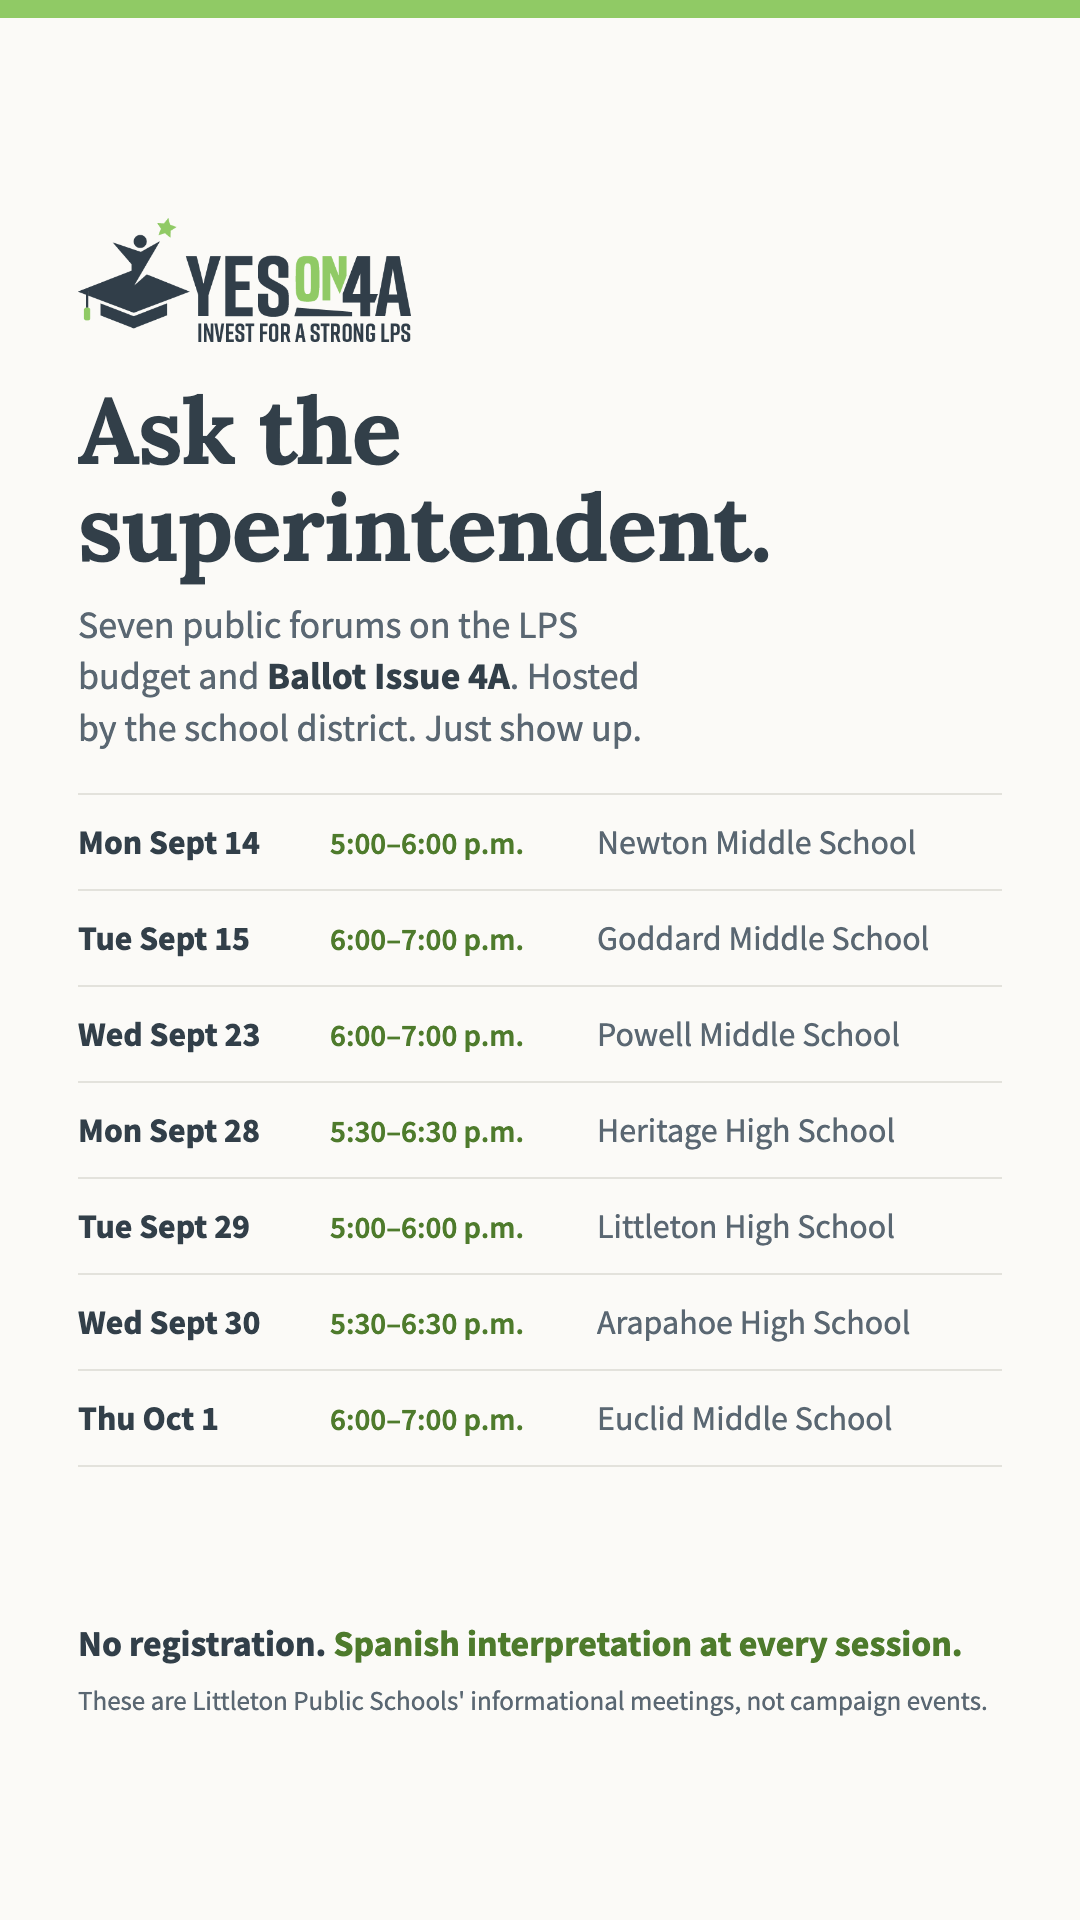
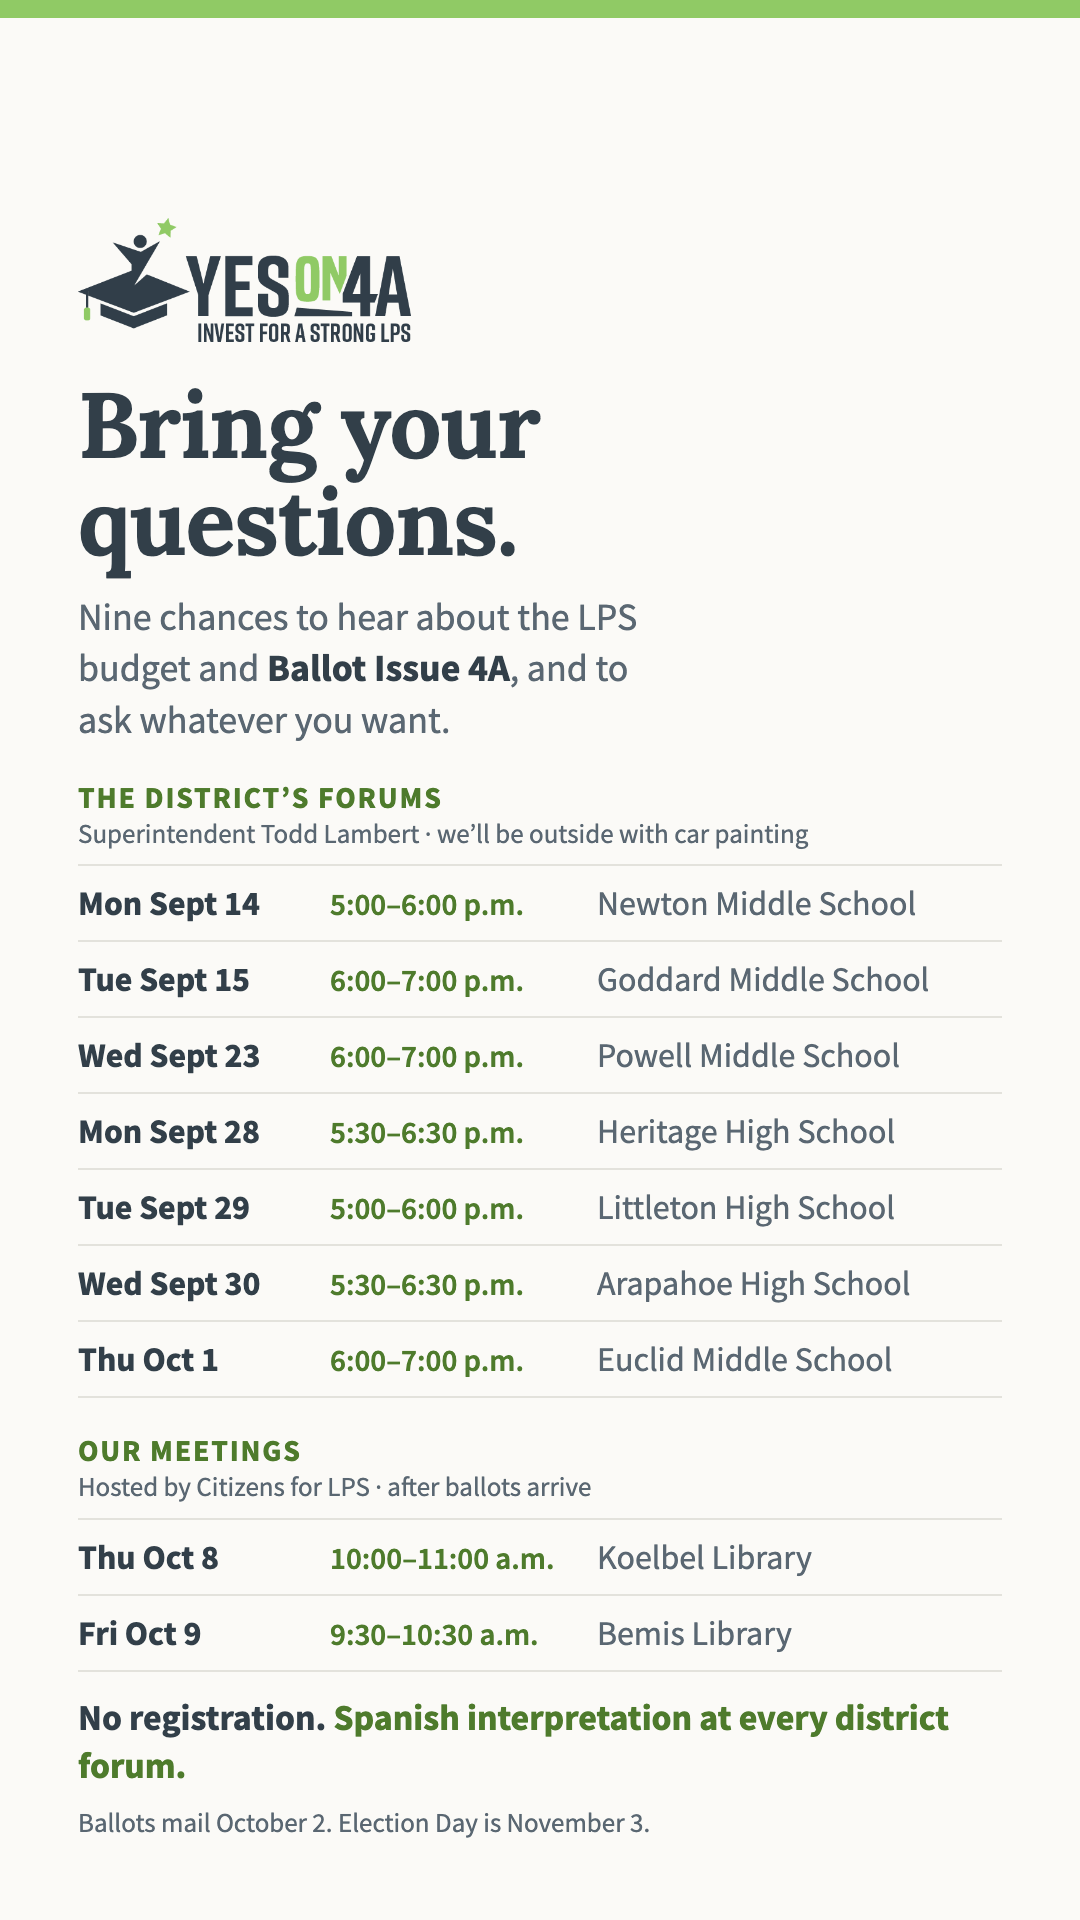
Two meeting tracks, kept apart: district forums and our own
Campaign feedback: "the campaign will be present at the forum meetings
- outside of the room. And we will be offering car painting at those.
The campaign is adding a few additional information meetings - could
we please add these as well? Thu 10/8, 10:00-11:00 am Koelbel Library;
Fri 10/9, 9:30-10:30 am Bemis Library."

The two new meetings are the COMMITTEE's, not the district's, so they
are a separate list everywhere — brief, data plane, site, and graphic.
Merging them into the Dollars and Sense forum list would attribute
campaign advocacy to LPS, and under CRS 1-45-117 that consequence
lands on the district, not on us. Two tables, two labels, always;
noted in the brief so a future pass doesn't tidy them together.

Car painting sharpens the two-track rule rather than bending it:
inside the room is the district informing voters, outside is the
committee advocating. Copy now says both in the same breath so a
reader knows which side of the door they are on.

- CAMPAIGN-BRIEF: campaign-meeting table, the outside/car-painting
  note, both added to key dates
- js/data.js: CAMPAIGN.campaignMeetings + forums.campaignOutside.
  No sourceId on the meetings — there is no public listing yet, and
  pointing at the Aug 19 news post would imply a source that doesn't
  cover them. Plain note plus a link to the official site instead.
- Site: its own section with its own invite draft (the committee may
  advocate at its own meetings; the forum draft may not)
[…]

Changed region(s): [[0.0611, 0.1875, 0.9167, 0.9688], [0.3056, 0.9375, 0.5806, 0.9688]]

diff --git a/branding/social/forums-card.html b/branding/social/forums-card.html
@@ -36,7 +36,17 @@ h1{font-family:'Lora',Georgia,serif;font-weight:700;font-size:var(--h1);
 .sub{font-size:var(--sub);line-height:1.35;color:var(--ink-soft);
      margin-top:var(--gap2);max-width:30ch}
 .sub b{color:var(--ink);font-weight:700}
-ul{list-style:none;margin-top:var(--gap3);border-top:2px solid var(--hairline)}
+.sched{margin-top:var(--gap3)}
+ul{list-style:none;border-top:2px solid var(--hairline)}
+/* Who hosts what is the load-bearing fact on this card: the district's
+   forums and the committee's meetings are different tracks and must
+   never read as one list. */
+.group{font-size:var(--group);font-weight:700;letter-spacing:.06em;
+  text-transform:uppercase;color:var(--green-deep);
+  margin-bottom:var(--groupGap);line-height:1.25}
+.group.ours{margin-top:var(--groupTop)}
+.group span{display:block;text-transform:none;letter-spacing:0;
+  font-weight:400;font-size:var(--groupSub);color:var(--ink-soft)}
 li{display:flex;align-items:baseline;gap:var(--colGap);
    padding:var(--row) 0;border-bottom:2px solid var(--hairline)}
 .when{font-weight:700;font-size:var(--list);color:var(--ink);
@@ -53,14 +63,16 @@ li{display:flex;align-items:baseline;gap:var(--colGap);
 body.portrait{width:1080px;height:1350px;
   --bar:16px; --padX:72px; --padY:52px; --logo:104px;
   --h1:76px; --sub:33px; --list:29px; --listSm:27px; --note:29px; --fine:24px;
-  --gap1:30px; --gap2:18px; --gap3:34px; --row:32px;
+  --group:25px; --groupSub:23px; --groupGap:12px; --groupTop:30px;
+  --gap1:26px; --gap2:16px; --gap3:30px; --row:13px;
   --wWhen:200px; --wTime:210px; --colGap:18px}
 
 /* ---- 1080x1080 — square feed / profile grid ---- */
 body.square{width:1080px;height:1080px;
   --bar:14px; --padX:66px; --padY:44px; --logo:88px;
-  --h1:62px; --sub:29px; --list:27px; --listSm:25px; --note:26px; --fine:22px;
-  --gap1:22px; --gap2:14px; --gap3:22px; --row:21px;
+  --h1:58px; --sub:27px; --list:25px; --listSm:23px; --note:25px; --fine:21px;
+  --group:22px; --groupSub:20px; --groupGap:9px; --groupTop:22px;
+  --gap1:18px; --gap2:12px; --gap3:20px; --row:8px;
   --wWhen:186px; --wTime:196px; --colGap:16px}
 
 /* ---- 1080x1920 — Stories / Reels. Platform UI eats the top and bottom,
@@ -68,15 +80,17 @@ body.square{width:1080px;height:1080px;
 body.story{width:1080px;height:1920px;
   --bar:18px; --padX:78px; --padY:200px; --logo:124px;
   --h1:92px; --sub:38px; --list:34px; --listSm:31px; --note:36px; --fine:27px;
-  --gap1:40px; --gap2:24px; --gap3:40px; --row:26px;
+  --group:30px; --groupSub:27px; --groupGap:14px; --groupTop:34px;
+  --gap1:34px; --gap2:22px; --gap3:34px; --row:16px;
   --wWhen:230px; --wTime:245px; --colGap:22px}
 
 /* ---- 1200x630 — link previews and shared-link cards. Too short to stack,
        so headline and schedule sit side by side. ---- */
 body.wide{width:1200px;height:630px;
   --bar:12px; --padX:56px; --padY:38px; --logo:74px;
-  --h1:47px; --sub:24px; --list:24px; --listSm:21px; --note:23px; --fine:19px;
-  --gap1:16px; --gap2:12px; --gap3:0px; --row:11px;
+  --h1:47px; --sub:24px; --list:23px; --listSm:21px; --note:22px; --fine:19px;
+  --group:20px; --groupSub:18px; --groupGap:6px; --groupTop:16px;
+  --gap1:14px; --gap2:10px; --gap3:0px; --row:6px;
   --wWhen:160px; --wTime:0px; --colGap:16px}
 body.wide .sheet{display:grid;column-gap:46px;
   grid-template-columns:44% 1fr;
@@ -85,8 +99,8 @@ body.wide .lockup{grid-column:1;grid-row:1}
 body.wide h1{grid-column:1;grid-row:2}
 body.wide .sub{grid-column:1;grid-row:3}
 body.wide .foot{grid-column:1;grid-row:4;align-self:end;margin-top:0}
-body.wide ul{grid-column:2;grid-row:1/5;align-self:center;
-  margin-top:0;border-top:none}
+body.wide .sched{grid-column:2;grid-row:1/5;align-self:center;margin-top:0}
+body.wide ul{border-top:none}
 body.wide li:last-child{border-bottom:none}
 /* The wide card is a teaser, not a reference: times would force a third
    column and shrink everything below thumbnail legibility. */
@@ -102,9 +116,12 @@ body.wide .sub{max-width:24ch}
 
 <div class="sheet">
   <img class="lockup" src="../../assets/yes-on-4a-logo.png" alt="">
-  <h1>Ask the superintendent.</h1>
-  <p class="sub">Seven public forums on the LPS budget and <b>Ballot Issue&nbsp;4A</b>. Hosted by the school district. Just show up.</p>
-  <ul>
+  <h1>Bring your questions.</h1>
+  <p class="sub">Nine chances to hear about the LPS budget and <b>Ballot Issue&nbsp;4A</b>, and to ask whatever you want.</p>
+
+  <div class="sched">
+    <p class="group">The district&rsquo;s forums<span>Superintendent Todd Lambert &middot; we&rsquo;ll be outside with car painting</span></p>
+    <ul>
       <li><span class="when">Mon Sept 14</span><span class="time">5:00–6:00 p.m.</span><span class="place">Newton Middle School</span></li>
       <li><span class="when">Tue Sept 15</span><span class="time">6:00–7:00 p.m.</span><span class="place">Goddard Middle School</span></li>
       <li><span class="when">Wed Sept 23</span><span class="time">6:00–7:00 p.m.</span><span class="place">Powell Middle School</span></li>
@@ -112,10 +129,18 @@ body.wide .sub{max-width:24ch}
       <li><span class="when">Tue Sept 29</span><span class="time">5:00–6:00 p.m.</span><span class="place">Littleton High School</span></li>
       <li><span class="when">Wed Sept 30</span><span class="time">5:30–6:30 p.m.</span><span class="place">Arapahoe High School</span></li>
       <li><span class="when">Thu Oct 1</span><span class="time">6:00–7:00 p.m.</span><span class="place">Euclid Middle School</span></li>
-  </ul>
+    </ul>
+
+    <p class="group ours">Our meetings<span>Hosted by Citizens for LPS &middot; after ballots arrive</span></p>
+    <ul>
+      <li><span class="when">Thu Oct 8</span><span class="time">10:00–11:00 a.m.</span><span class="place">Koelbel Library</span></li>
+      <li><span class="when">Fri Oct 9</span><span class="time">9:30–10:30 a.m.</span><span class="place">Bemis Library</span></li>
+    </ul>
+  </div>
+
   <div class="foot">
-    <p class="note">No registration. <span>Spanish interpretation at every session.</span></p>
-    <p class="fine">These are Littleton Public Schools' informational meetings, not campaign events.</p>
+    <p class="note">No registration. <span>Spanish interpretation at every district forum.</span></p>
+    <p class="fine">Ballots mail October 2. Election Day is November 3.</p>
   </div>
 </div>
 </body></html>

diff --git a/js/app.js b/js/app.js
@@ -81,6 +81,12 @@
   }
 
   document.addEventListener('click', (e) => {
+    const cmBtn = e.target.closest('[data-cmeeting]');
+    if (cmBtn) {
+      e.preventDefault();
+      inviteToCampaignMeeting(Number(cmBtn.dataset.cmeeting));
+      return;
+    }
     const forumBtn = e.target.closest('[data-forum]');
     if (forumBtn) {
       inviteToForum(Number(forumBtn.dataset.forum));
@@ -141,6 +147,34 @@
       .filter((s) => s.when >= today);
   }
 
+  function upcomingCampaignMeetings() {
+    const today = todayStart();
+    return CAMPAIGN.campaignMeetings.sessions
+      .map((s, i) => ({ ...s, i, when: localDate(s.date) }))
+      .filter((s) => s.when >= today);
+  }
+
+  function renderCampaignMeetings() {
+    const list = $('campaign-meeting-list');
+    if (!list) return;
+    const cm = CAMPAIGN.campaignMeetings;
+    const upcoming = upcomingCampaignMeetings();
+    if (!upcoming.length) { list.innerHTML = ''; return; }
+    list.innerHTML = `
+      <ul class="forum-list">${upcoming.map((s) => `
+        <li class="forum-row">
+          <div class="forum-when">
+            <span class="forum-day">${escHtml(fmtDay(s.when))}</span>
+            <span class="forum-time">${escHtml(s.time)}</span>
+          </div>
+          <div class="forum-place">${escHtml(s.place)}</div>
+          <button class="link-btn campaign-meeting-invite" data-cmeeting="${s.i}">Invite someone &rarr;</button>
+        </li>`).join('')}
+      </ul>
+      <p class="fine">Hosted by ${escHtml(cm.host)}. ${escHtml(cm.sourceNote)}
+        <a href="${CAMPAIGN.officialSite}" target="_blank" rel="noopener">citizensforlps.org</a> for updates.</p>`;
+  }
+
   function renderForums() {
     const list = $('forum-list');
     if (!list) return;
@@ -161,7 +195,8 @@
           <button class="link-btn forum-invite" data-forum="${s.i}">Invite someone &rarr;</button>
         </li>`).join('')}
       </ul>
-      <p class="fine">No sign-up needed. Spanish interpretation at every session. ${src}</p>`;
+      <p class="fine">No sign-up needed. Spanish interpretation at every session. ${src}</p>
+      <p class="fine">${escHtml(CAMPAIGN.forums.campaignOutside)} Come early if you want your car windows painted.</p>`;
   }
 
   /*
@@ -171,6 +206,20 @@
    */
   function forumInviteText(s) {
     return `The superintendent is taking questions about the LPS budget and 4A, the mill levy override, at ${s.place} on ${fmtDay(s.when)}, ${s.time.replace(/\.$/, '')}. No sign-up, and there is Spanish interpretation. Want to go with me? I'd like the company. And I'm voting yes.`;
+  }
+
+  function campaignMeetingInviteText(s) {
+    return `Citizens for LPS is holding an information meeting about 4A, the LPS mill levy override, at ${s.place} on ${fmtDay(s.when)}, ${s.time.replace(/\.$/, '')}. Ballots will already be in your mailbox. Bring your questions and I'll see you there. I'm voting yes.`;
+  }
+
+  function inviteToCampaignMeeting(i) {
+    const s = CAMPAIGN.campaignMeetings.sessions[i];
+    if (!s) return;
+    setDraft(campaignMeetingInviteText({ ...s, when: localDate(s.date) }));
+    cardTextTouched = false;
+    if ($('view-studio').hidden) showView('studio');
+    gotoStep(2);
+    $('studio-draft').focus();
   }
 
   function inviteToForum(i) {
@@ -1419,6 +1468,7 @@
   function init() {
     renderBallotSummary();
     renderForums();
+    renderCampaignMeetings();
     renderVoices();
     initPromptClicks();
     initDraft();

diff --git a/js/data.js b/js/data.js
@@ -310,6 +310,11 @@ const CAMPAIGN = {
   forums: {
     sourceId: 'lpsDollarsAndSense',
     host: 'Superintendent Todd Lambert',
+    // The committee is outside the room at each of these with car
+    // painting (campaign, 2026-09-09). Inside is the district
+    // informing voters; outside is advocacy. Copy says both, so a
+    // reader always knows which side of the door they're on.
+    campaignOutside: 'Volunteers will be outside each forum painting car windows. The meeting inside is the district\u2019s.',
     sessions: [
       { date: '2026-09-14', time: '5:00–6:00 p.m.', place: 'Newton Middle School' },
       { date: '2026-09-15', time: '6:00–7:00 p.m.', place: 'Goddard Middle School' },
@@ -318,6 +323,27 @@ const CAMPAIGN = {
       { date: '2026-09-29', time: '5:00–6:00 p.m.', place: 'Littleton High School' },
       { date: '2026-09-30', time: '5:30–6:30 p.m.', place: 'Arapahoe High School' },
       { date: '2026-10-01', time: '6:00–7:00 p.m.', place: 'Euclid Middle School' },
+    ],
+  },
+
+  /*
+   * The COMMITTEE's own information meetings — a separate track from
+   * `forums` above and never merged with them. Citizens for LPS hosts
+   * these and may advocate at them; listing a campaign event as a
+   * district forum misattributes advocacy to LPS (CRS 1-45-117) and
+   * the consequence lands on the district. Two lists, two labels.
+   * Both fall after ballots mail Oct 2 — attendees have a ballot.
+   */
+  campaignMeetings: {
+    host: 'Citizens for LPS',
+    // Campaign-reported 2026-09-09. There is NO public listing yet, so
+    // this carries a plain-language note instead of a sourceId — citing
+    // the Aug 19 news post would imply a source that doesn't cover it.
+    // Add sourceId once these appear on citizensforlps.org/upcoming_events.
+    sourceNote: 'Reported by the campaign on September 9, 2026. Not yet listed publicly \u2014 check',
+    sessions: [
+      { date: '2026-10-08', time: '10:00–11:00 a.m.', place: 'Koelbel Library' },
+      { date: '2026-10-09', time: '9:30–10:30 a.m.', place: 'Bemis Library' },
     ],
   },
 

diff --git a/index.html b/index.html
@@ -115,6 +115,16 @@
         </p>
         <div id="forum-list"></div>
 
+        <h2 class="section-title">And two meetings that are ours</h2>
+        <p class="body">
+          Citizens for LPS is holding its own information meetings in
+          October, after ballots land. Different from the forums above:
+          these are the campaign's, so we can make the case at them and
+          answer the questions people actually have once the ballot is
+          on the kitchen table.
+        </p>
+        <div id="campaign-meeting-list"></div>
+
         <h2 class="section-title">What 4A is</h2>
         <div id="ballot-summary"></div>
         <p class="fine">

diff --git a/docs/campaign/CAMPAIGN-BRIEF.md b/docs/campaign/CAMPAIGN-BRIEF.md
@@ -165,6 +165,16 @@ once) mean the campaign treats that floor as earned, not guaranteed.
   These are district-track informational meetings — our tools invite
   neighbors to them; they never describe them as campaign events.
 
+  **The campaign will be present at each forum, OUTSIDE the room, with
+  car painting** (campaign, 2026-09-09). This does not change the
+  two-track rule; it sharpens it. Inside the room is the district
+  informing voters, and no campaign material belongs there. Outside is
+  the committee, and it may advocate freely. Copy must keep those two
+  facts in the same breath so a reader knows where the line is: "the
+  district's meeting inside, us outside." Never write anything that
+  could read as the district hosting, endorsing, or sponsoring the
+  campaign's table.
+
   | Date | Time | Place |
   |---|---|---|
   | Mon Sept 14 | 5:00–6:00 p.m. | Newton Middle School |
@@ -175,13 +185,32 @@ once) mean the campaign treats that floor as earned, not guaranteed.
   | Wed Sept 30 | 5:30–6:30 p.m. | Arapahoe High School |
   | Thu Oct 1 | 6:00–7:00 p.m. | Euclid Middle School |
 
+- **Campaign information meetings** (campaign, 2026-09-09) — hosted by
+  **Citizens for LPS**, not the district. These are the committee's own
+  events: it may advocate at them, and the "district-track" framing
+  above does NOT apply. Both land after ballots mail on October 2, so
+  attendees will have a ballot in hand.
+
+  | Date | Time | Place |
+  |---|---|---|
+  | Thu Oct 8 | 10:00–11:00 a.m. | Koelbel Library |
+  | Fri Oct 9 | 9:30–10:30 a.m. | Bemis Library |
+
+  ⚠ Never merge this table into the district forum table. A campaign
+  meeting listed as a district forum misattributes advocacy to LPS,
+  which is the exact failure mode CRS 1-45-117 punishes — and it lands
+  on the district, not on us. Two tables, two labels, always. (Koelbel
+  is in Centennial and Bemis in Littleton, so together they cover both
+  halves of the electorate.)
+
 ## Key dates (researched Aug 2026 — see docs/research/colorado-compliance.md §7 for the full table with statutes)
 
 | Date | Event | Status |
 |---|---|---|
 | 2026-08-13 | Board places MLO on ballot | ✅ done |
 | 2026-09-01 | District community email announces the measure, the tax example, and the seven forums | ✅ done |
-| 2026-09-14 → 10-01 | Dollars and Sense Community Forums (seven; see table above) | scheduled |
+| 2026-09-14 → 10-01 | Dollars and Sense Community Forums (seven; district-hosted; campaign outside with car painting) | scheduled |
+| 2026-10-08, 10-09 | Campaign information meetings — Koelbel Library, Bemis Library (committee-hosted) | scheduled |
 | ~2026-09-04 | Ballot content certified to county (60 days) — **the measure is Ballot Issue 4A** | ✅ done (campaign-reported 2026-09-08; county link pending) |
 | **2026-09-18 (likely noon)** | **TABOR notice pro/con comments due to LPS DEO — hard, unrecoverable deadline; the FOR statement reaches every voter household free** | ⚠ VERIFY exact date/time NOW |
 | ~2026-10-02 | TABOR notice mailed to voters (30 days) | ⚠ VERIFY |

diff --git a/PARITY.md b/PARITY.md
@@ -59,6 +59,7 @@ everything else.
 | Feature | Web | Notes |
 |---|---|---|
 | Start — what this is + sourced ballot summary | ✅ | `?` |
+| District forums + campaign meetings, listed separately | ✅ | Two tracks never merged: `CAMPAIGN.forums` (district-hosted, committee outside with car painting) and `CAMPAIGN.campaignMeetings` (committee-hosted, Oct 8-9). Each gets its own invite draft |
 | Official Yes on 4A brand — header lockup (light/dark), favicon set, app icons, OG card | ✅ | Generated from `branding/yes-on-4a/` by `tools/render_brand_assets.py`; site had NO icon of any kind before 2026-09-09. Lockup marks the site only — share cards keep the star motif (Decision 058 amendment) |
 | Share Studio — four-step guided wizard (who you are → your words → a picture → send it) | ✅ | `?view=studio&step=N`; voice prompts seed the draft; per-network guided panels with micro-steps; Nextdoor ShareKit, SMS, WhatsApp, LinkedIn compose, Threads, Bluesky prefill; FB/IG/Messenger copy-then-open (prefill banned by Meta policy); native share sheet on mobile; sent-state tally |
 | Send paths are real links + same-gesture copy + visible fallback (Decision 061) | ✅ | Anchors not `window.open`; synchronous clipboard copy; "Didn't open?" line with plain link; "Copy my words" on every panel; verified in Chrome with a real click into the real Facebook composer (2026-09-02) |
